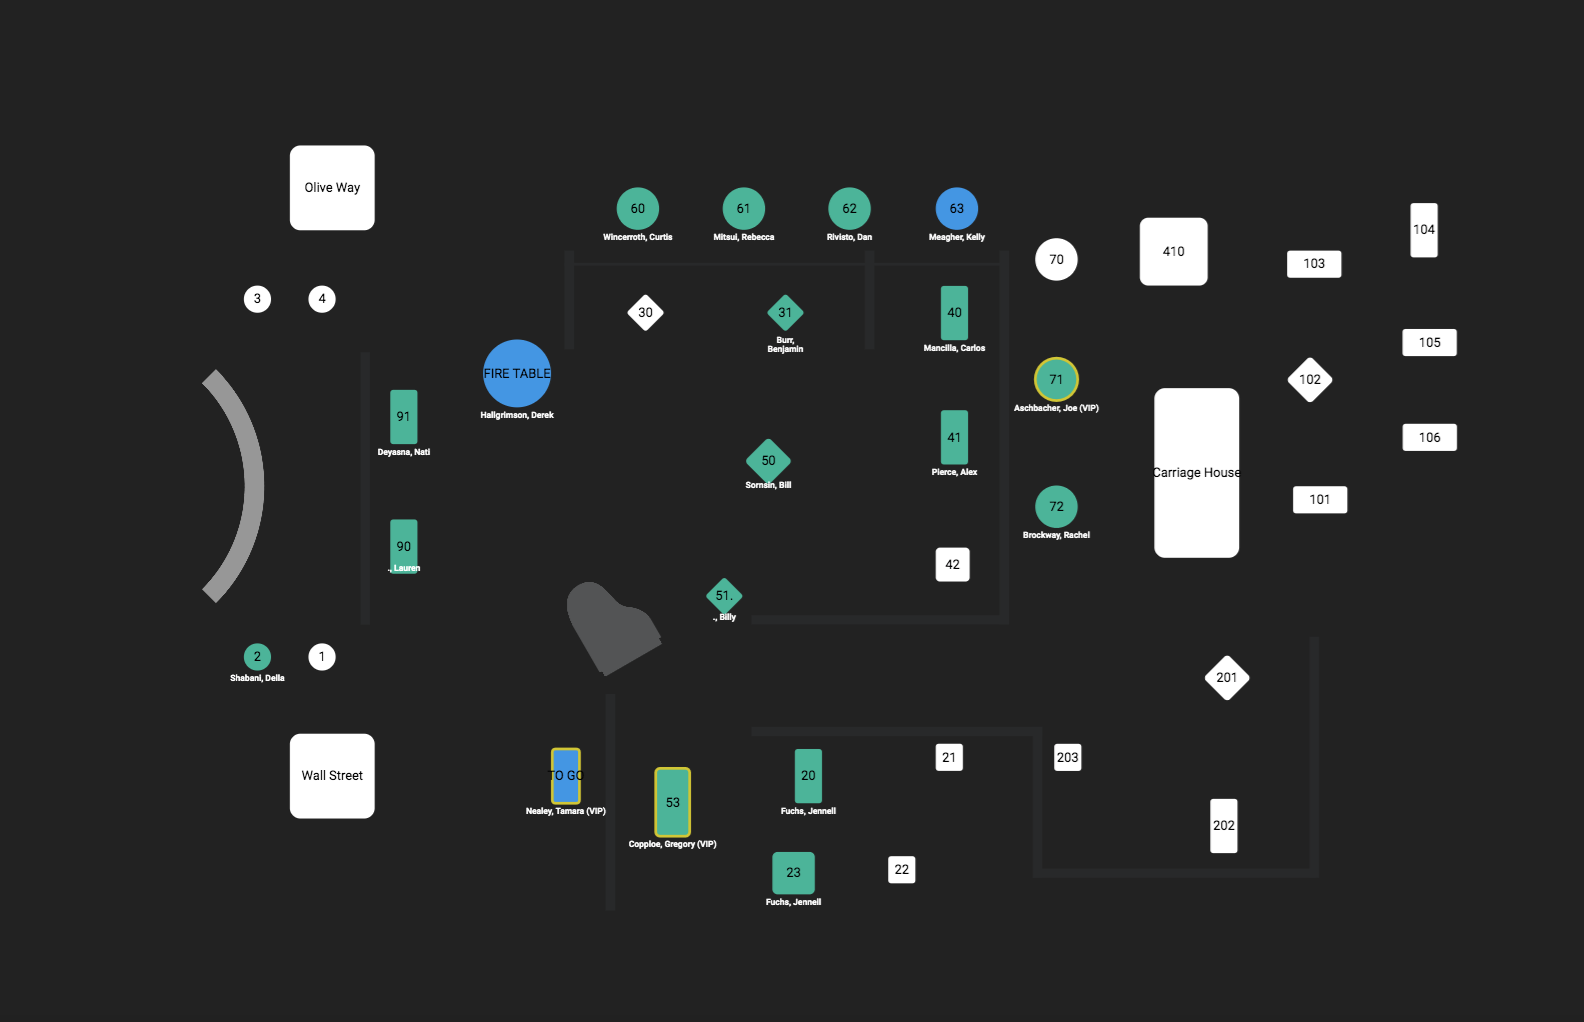
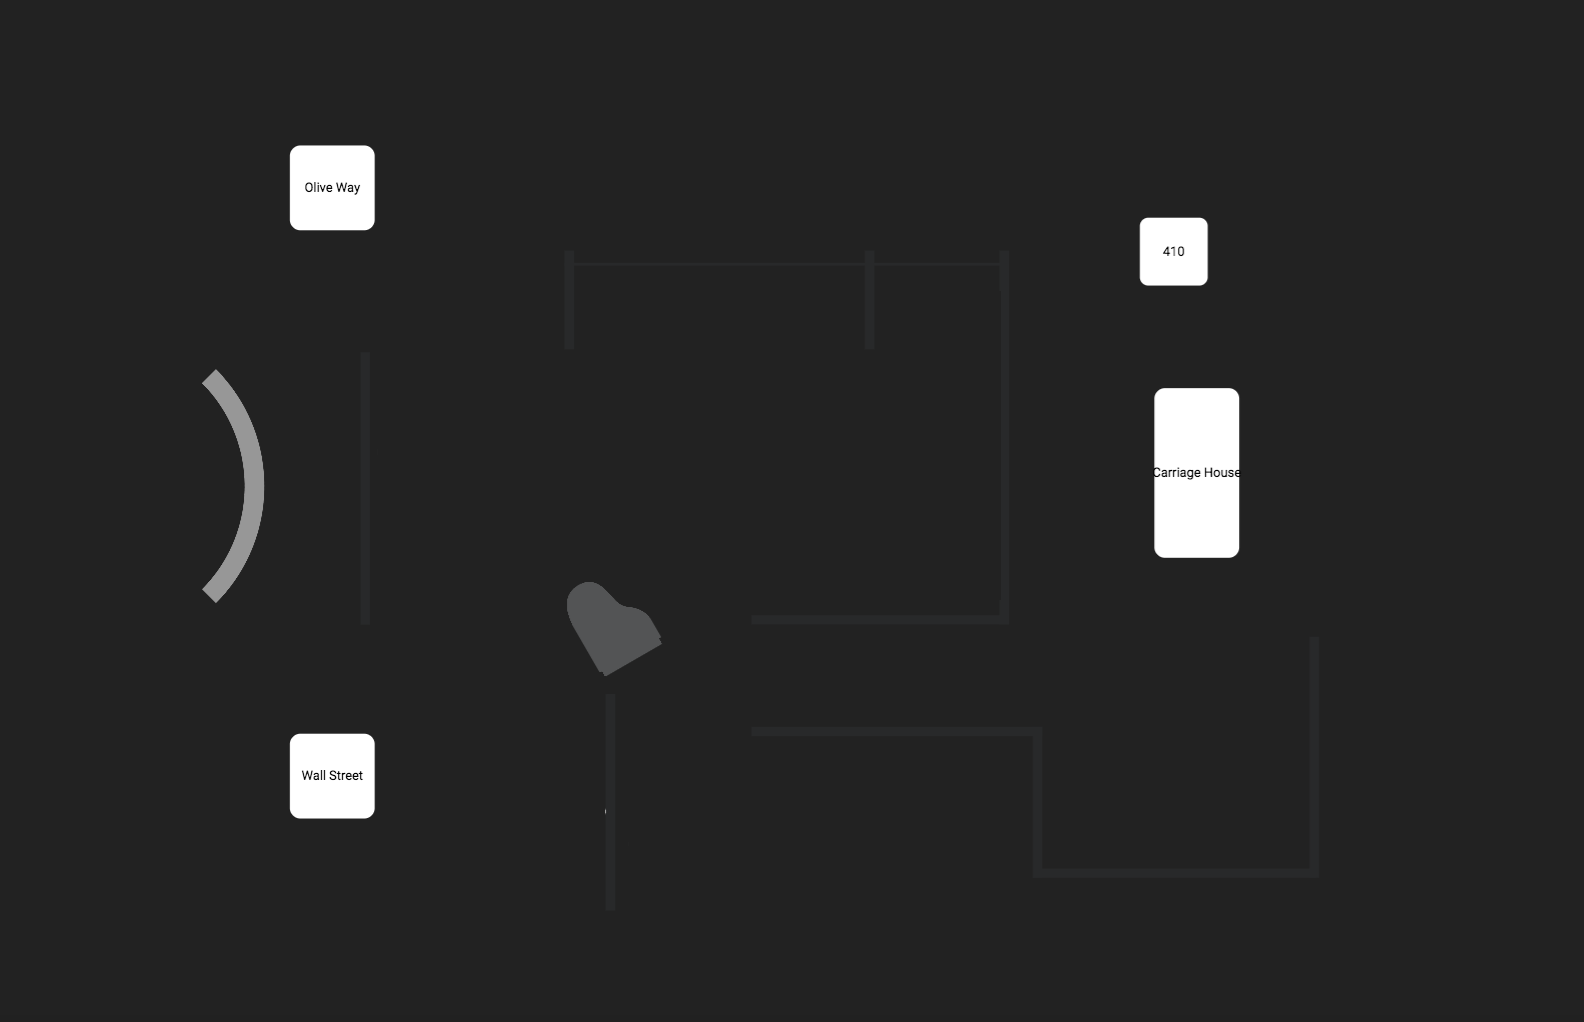
Added all tables

diff --git a/tables.html b/tables.html
@@ -7,6 +7,7 @@
         body {
             margin: 0;
             padding: 0;
+            font-family: Helvetica, sans-serif;
         }
         #container {
             width: 100%;
@@ -38,25 +39,49 @@
             }
         }
 
-        .round-table {
+        .circle-table {
             width: 42px;
             height: 42px;
             line-height: 40px;
             border-radius: 50%;
         }
+        .small-circle-table {
+            width: 27px;
+            height: 27px;
+            line-height: 27px;
+            border-radius: 50%;
+        }
+        .fire-table {
+            width: 68px;
+            height: 68px;
+            line-height: 68px;
+            border-radius: 50%;
+        }
+        .small-diamond-table {
+            width: 27px;
+            height: 27px;
+        }
+        .large-diamond-table {
+            width: 32px;
+            height: 32px;
+        }
         .diamond-table {
-            width: 30px;
-            height: 30px;
             transform: rotate(45deg);
+            border-radius: 5px;
         }
         .diamond-table span {
             text-align: center;
             position: absolute;
-            margin-left: -7px;
+            margin-left: -9px;
             margin-top: 6px;
             transform: rotate(-45deg);
         }
-        .long-rect-table {
+        .vip-rect-table {
+            width: 34px;
+            height: 68px;
+            border-radius: 5px;
+        }
+        .tall-rect-table {
             width: 27px;
             height: 54px;
             border-radius: 5px;
@@ -71,6 +96,16 @@
             height: 34px;
             border-radius: 5px;
         }
+        .small-square-table {
+            width: 27px;
+            height: 27px;
+            border-radius: 5px;
+        }
+        .large-square-table {
+            width: 42px;
+            height: 42px;
+            border-radius: 5px;
+        }
         .white-table {
             background-color: rgb(255, 255, 255);
         }
@@ -81,7 +116,6 @@
             background-color: rgb(62, 148, 229);
         }
         .togo-table {
-            background-color: #3e94e5;
             height: 56px;
         }
         .draggable:active {
@@ -96,6 +130,7 @@
 <body>
 <div id="container">
     <img src="./gaucho-seating-blank.png">
+    <img src="./gaucho-seating.png">
 </div>
 <div style="position: fixed; top: 4px; left: 100px;">
     <button id="addTable">add</button>
@@ -106,51 +141,83 @@
     let tables = {
         togo: {
             x: 551,	y: 746,
-            style: "long-rect-table togo-table"
+            style: "tall-rect-table togo-table blue-table"
+        },
+        fire: {
+            x: 483, y: 338,
+            style: "fire-table blue-table"
+        },
+        table1: {
+            x: 306, y: 642,
+            style: "small-circle-table white-table"
+        },
+        table2: {
+            x: 243, y: 642,
+            style: "small-circle-table green-table"
+        },
+        table3: {
+            x: 241, y: 283,
+            style: "small-circle-table white-table"
+        },
+        table4: {
+            x: 308, y: 284,
+            style: "small-circle-table white-table"
         },
         table20: {
             x: 795,	y: 747,
-            style: "long-rect-table green-table"
+            style: "tall-rect-table green-table"
+        },
+        table21: {
+            x: 934, y: 743,
+            style: "small-square-table white-table"
+        },
+        table22: {
+            x: 887, y: 855,
+            style: "small-square-table white-table"
+        },
+        table23: {
+            x: 771, y: 851,
+            style: "large-square-table green-table"
         },
         table60: {
             x: 617,
             y: 187,
-            style: "round-table green-table"
+            style: "circle-table green-table"
         },
         table61: {
             x: 723,
             y: 187,
-            style: "round-table green-table"
+            style: "circle-table green-table"
         },
         table62: {
             x: 827,
             y: 187,
-            style: "round-table green-table"
+            style: "circle-table green-table"
         },
         table63: {
             x: 936,
             y: 187,
-            style: "round-table blue-table"
+            style: "circle-table blue-table"
         },
         table30: {
             x: 632,
             y: 297,
-            style: "diamond-table white-table"
+            style: "small-diamond-table diamond-table white-table"
         },
         table31: {
             x: 770,
             y: 297,
-            style: "diamond-table green-table"
+            style: "small-diamond-table diamond-table green-table"
         },
         table40: {
             x: 941,
             y: 285,
-            style: "long-rect-table green-table"
+            style: "tall-rect-table green-table"
         },
         table41: {
             x: 941,
             y: 410,
-            style: "long-rect-table green-table"
+            style: "tall-rect-table green-table"
         },
         table42: {
             x: 935,
@@ -158,38 +225,54 @@
             style: "square-table white-table"
         },
         table50: {
-            x: 753,
-            y: 444,
-            style: "diamond-table green-table"
+            x: 751,
+            y: 443,
+            style: "large-diamond-table diamond-table green-table"
         },
         table51: {
             x: 708,
             y: 580,
-            style: "diamond-table green-table"
+            style: "small-diamond-table diamond-table green-table"
+        },
+        table53: {
+            x: 654, y: 766,
+            style: "vip-rect-table green-table"
         },
         table70: {
             x: 1034,	y: 236,
-            style: "round-table white-table"
+            style: "circle-table white-table"
         },
         table71: {
             x: 1033,	y: 356,
-            style: "round-table green-table"
+            style: "circle-table green-table"
         },
         table72: {
             x: 1034,	y: 482,
-            style: "round-table green-table"
+            style: "circle-table green-table"
         },
         table90: {
             x: 389,	y: 519,
-            style: "long-rect-table green-table"
+            style: "tall-rect-table green-table"
         },
         table91: {
             x: 389,	y: 387,
-            style: "long-rect-table green-table"
+            style: "tall-rect-table green-table"
+        },
+        table101: {
+            x: 1291, y: 486,
+            style: "wide-rect-table white-table"
+        },
+        table102: {
+            x: 1293, y: 362,
+            style: "large-diamond-table diamond-table white-table"
+        },
+        table103: {
+            x: 1286, y: 249,
+            style: "wide-rect-table white-table"
         },
         table104: {
             x: 1408,	y: 201,
-            style: "long-rect-table white-table"
+            style: "tall-rect-table white-table"
         },
         table105: {
             x: 1402,	y: 328,
@@ -198,6 +281,18 @@
         table106: {
             x: 1402,	y: 423,
             style: "wide-rect-table white-table"
+        },
+        table201: {
+            x: 1209, y: 661,
+            style: "large-diamond-table diamond-table white-table"
+        },
+        table202: {
+            x: 1210, y: 797,
+            style: "tall-rect-table white-table"
+        },
+        table203: {
+            x: 1053, y: 742,
+            style: "small-square-table white-table"
         }
     }
 
